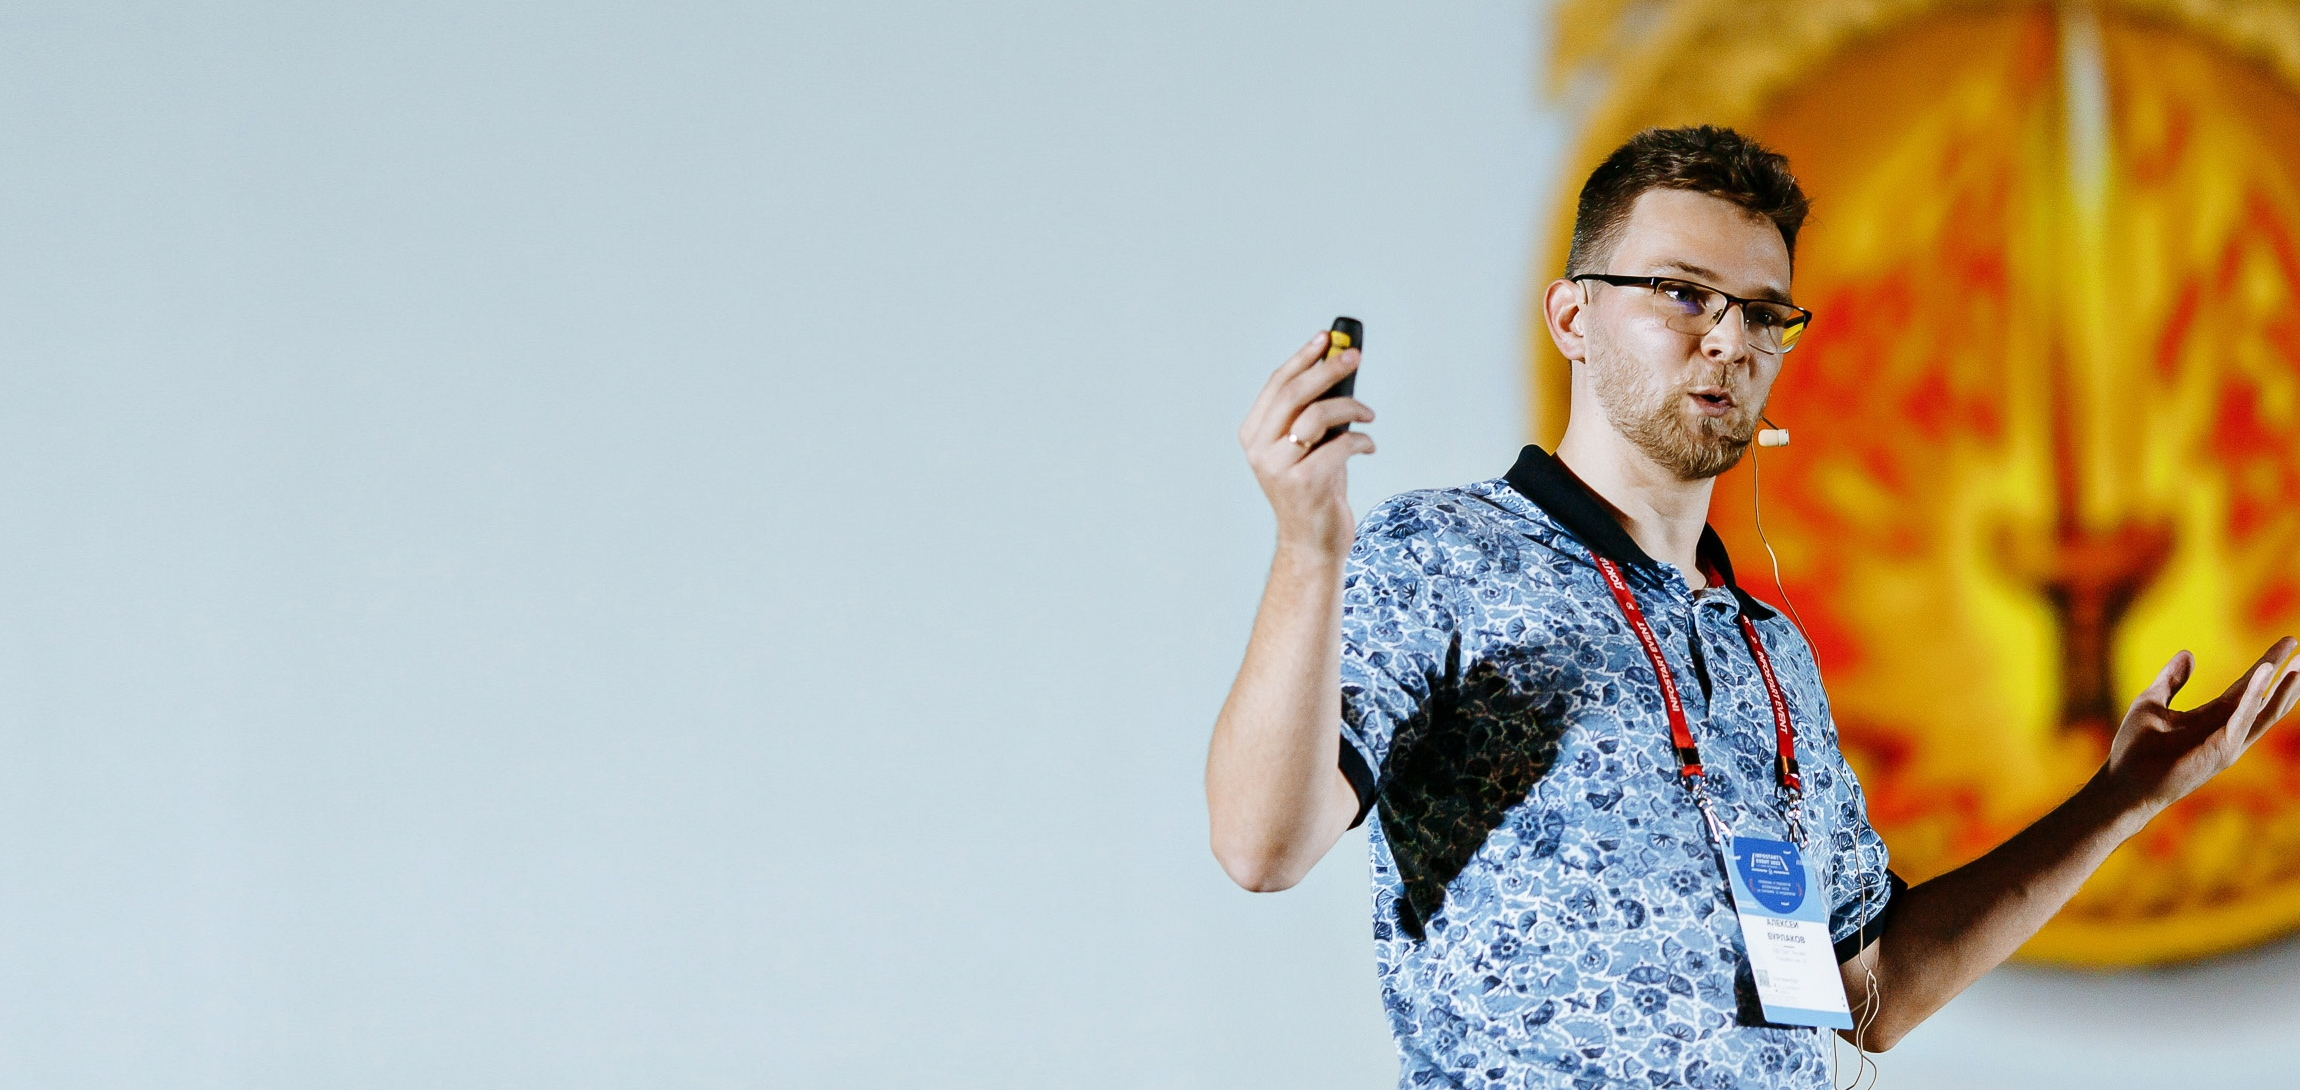
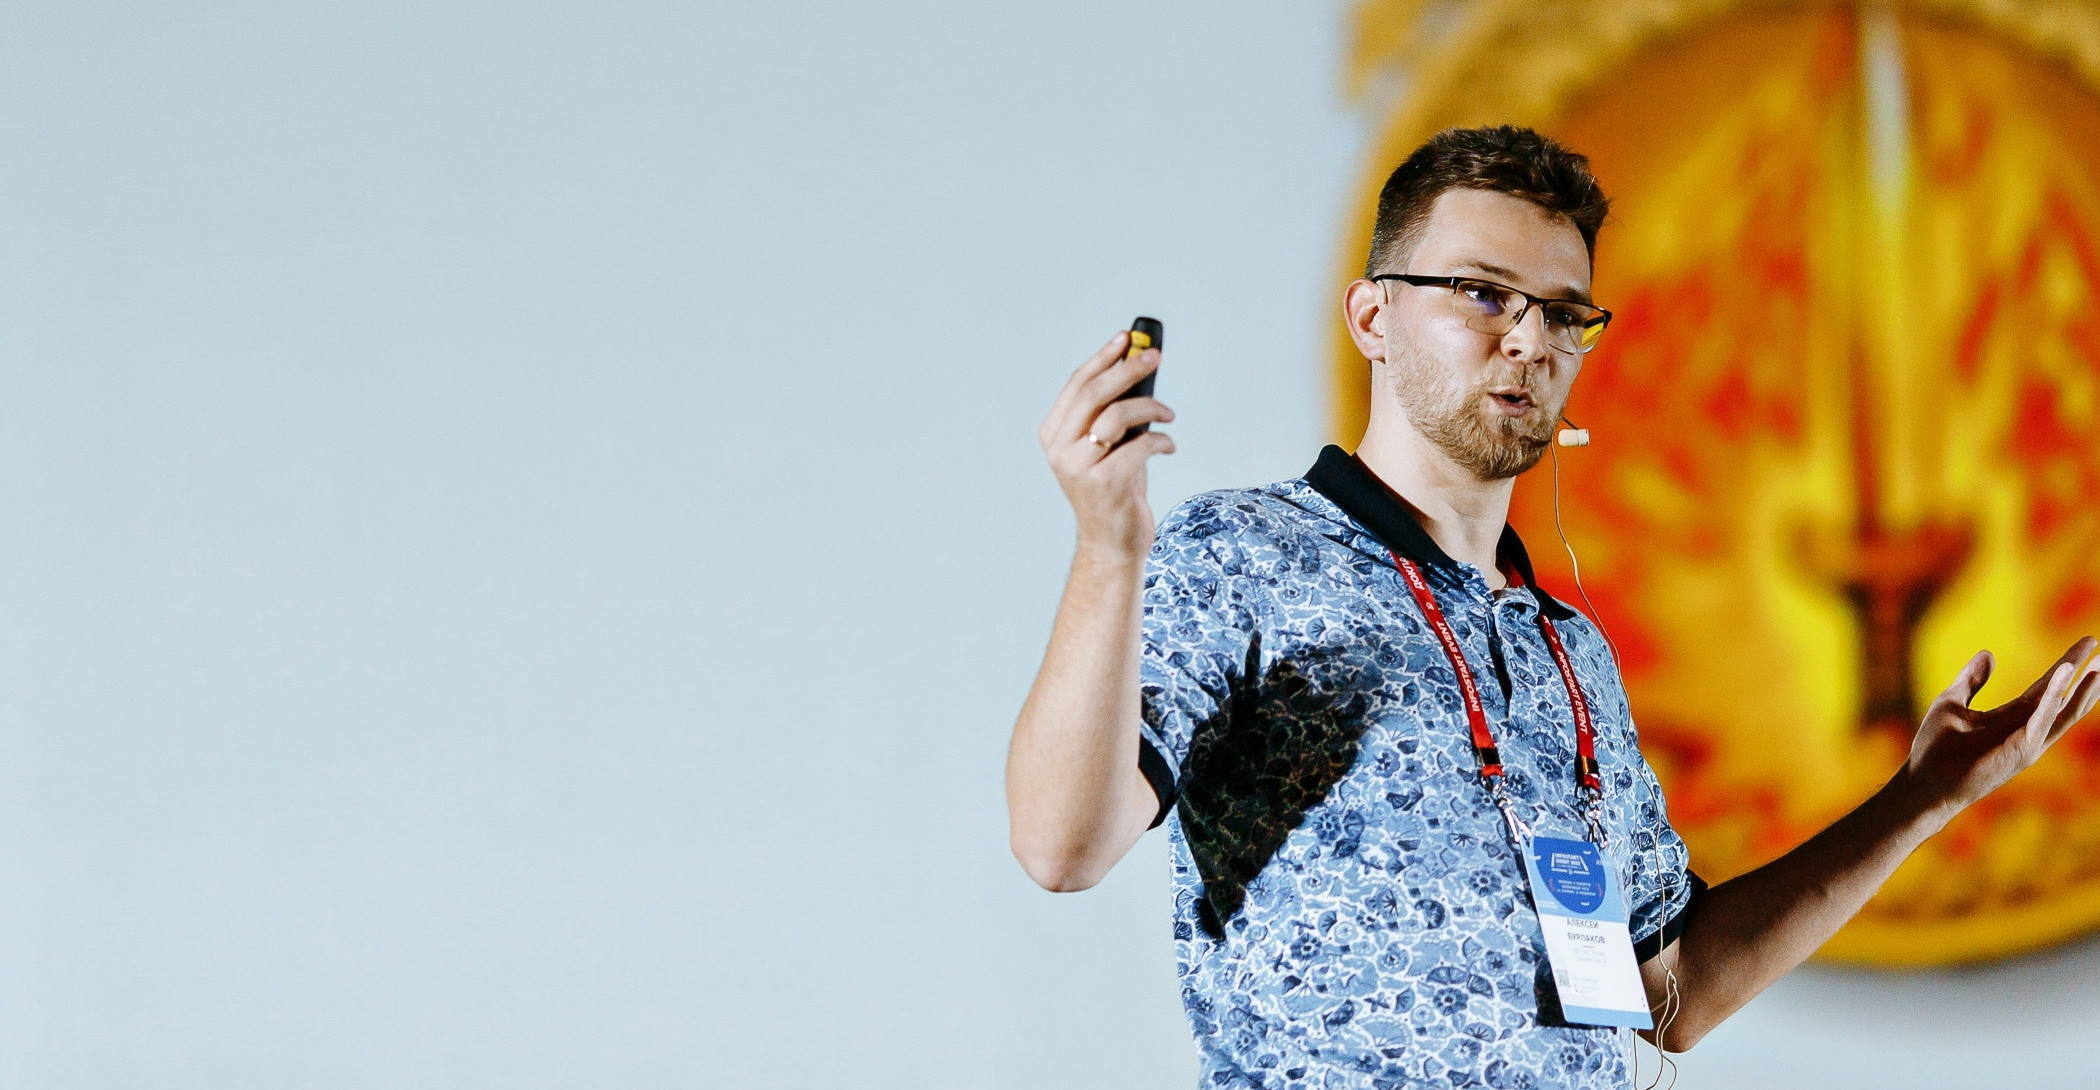
Parallax!

Changed region(s): [[0.4643, 0.0, 1.0, 1.0]]

diff --git a/building-module/templates/header.html b/building-module/templates/header.html
@@ -6,11 +6,20 @@
     <img src="./static/img/bg-3.jpg">
   </div>
 
+<!--    <div id="landing-content">-->
+<!--&lt;!&ndash;    <section class="slider">&ndash;&gt;-->
+<!--        <img src="./static/img/bg-2.jpg">-->
+<!--&lt;!&ndash;    </section>&ndash;&gt;-->
+<!--    </div>-->
+
+
+
   <!-- Хедер -->
   <header id="header">
     <div class="container">
       <h1><a href="{{ site_url }}">{{ name }}</a></h1>
       <h2><span>Python</span>-разработчик</h2>
+
 
       <nav id="navbar" class="navbar">
         <ul>
@@ -50,5 +59,6 @@
         <a href="{{ email }}" class="email"><i class="fa fa-envelope"></i></a>
       </div>
       </div>
-  </header><!-- Конец хедера -->    
+  </header>
+<!-- Конец хедера -->
 {% endblock %}

diff --git a/building-module/static/css/style.css b/building-module/static/css/style.css
@@ -10,9 +10,9 @@ body {
       -o-animation:      back 33s infinite; /* Opera 12+ */
       animation:         back 33s infinite; /* IE 10+, Fx 29+ */
   background-image: url("../img/bg-1.jpg");
-  background-position: top right;
+  background-position: var(--mouseX) var(--mouseY);
   background-repeat: no-repeat;
-  background-size: cover;
+   background-size: auto 110;
    background-attachment:fixed;
 }
 
@@ -40,6 +40,9 @@ body::before {
   top: 0;
   height: 100vh;
   z-index: -1;
+  background-position: var(--mouseX) var(--mouseY);
+
+   background-size: auto 110%;
 
 }
 @media (min-width: 1024px) {

diff --git a/building-module/static/js/main.js b/building-module/static/js/main.js
@@ -239,6 +239,15 @@
     }
   });
 
+    let dde = document.documentElement;
+    dde.addEventListener("mousemove", e => {
+      let ow = dde.offsetWidth;
+      let oh = dde.offsetHeight;
 
+      oh = ow * 0.6;
+
+      dde.style.setProperty('--mouseX', e.clientX * 15 / ow + "%");
+      dde.style.setProperty('--mouseY', e.clientY * 15 / oh + "%");
+    });
 
 })()
